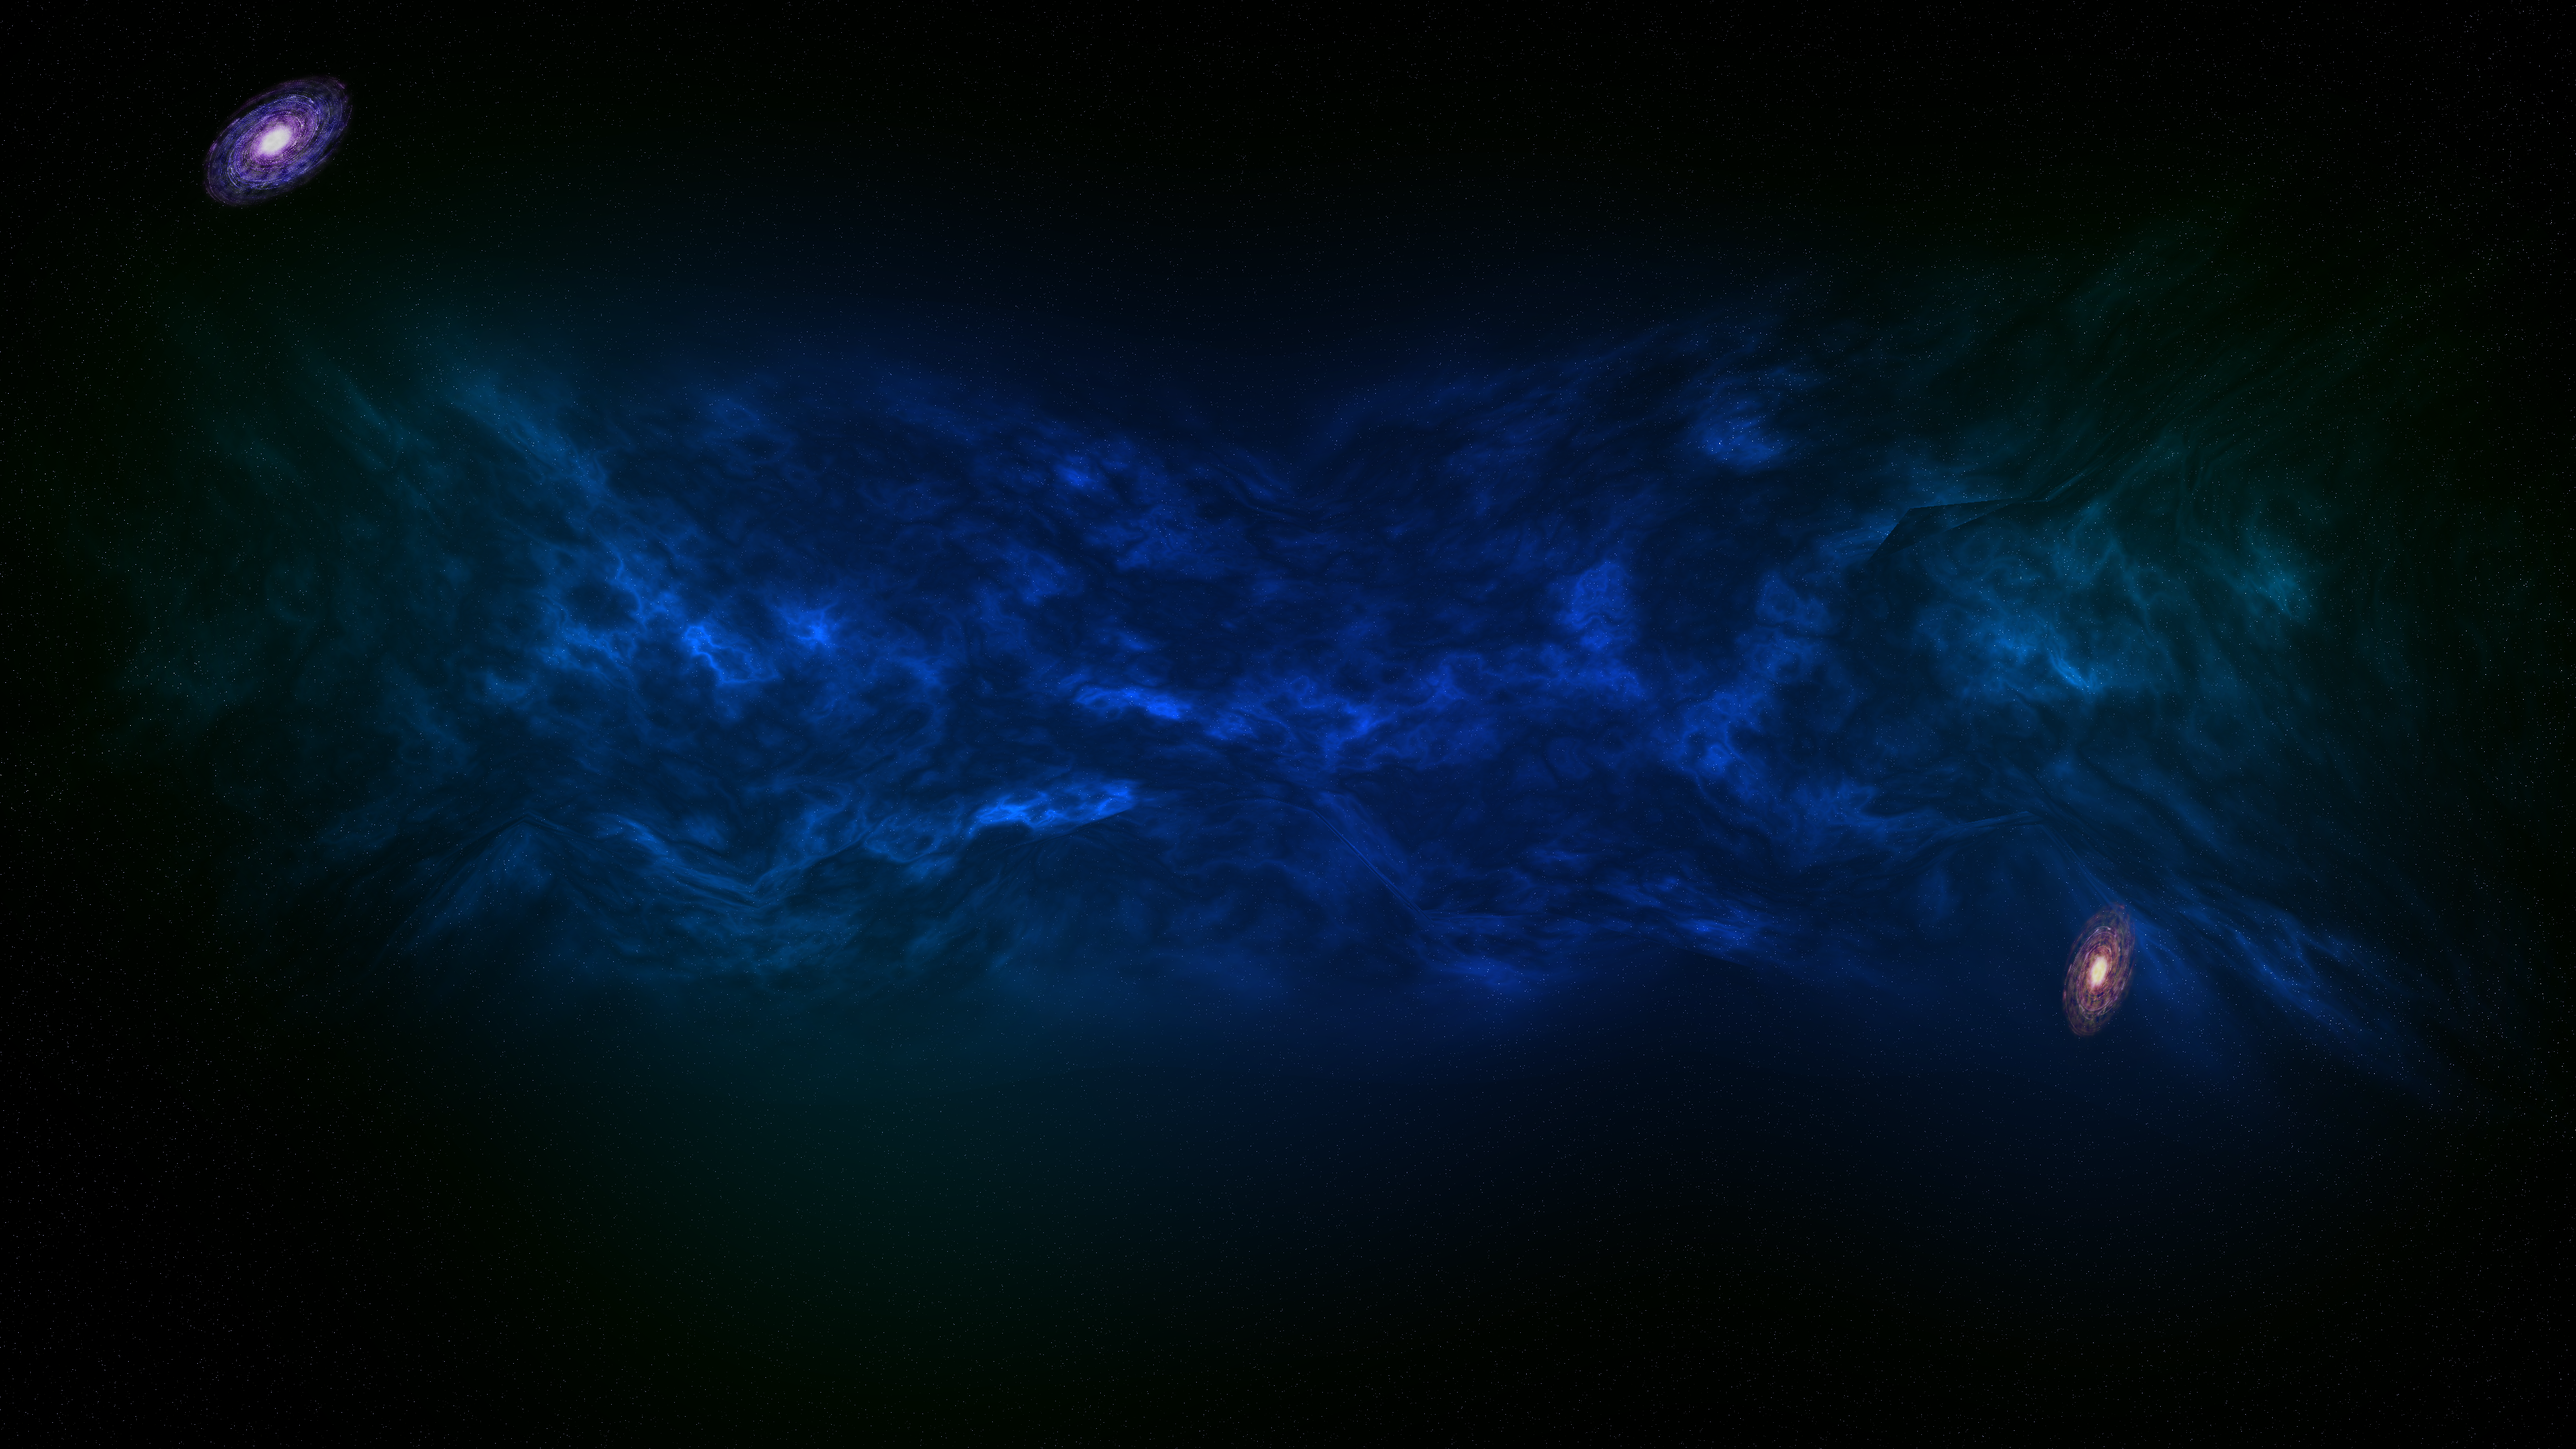
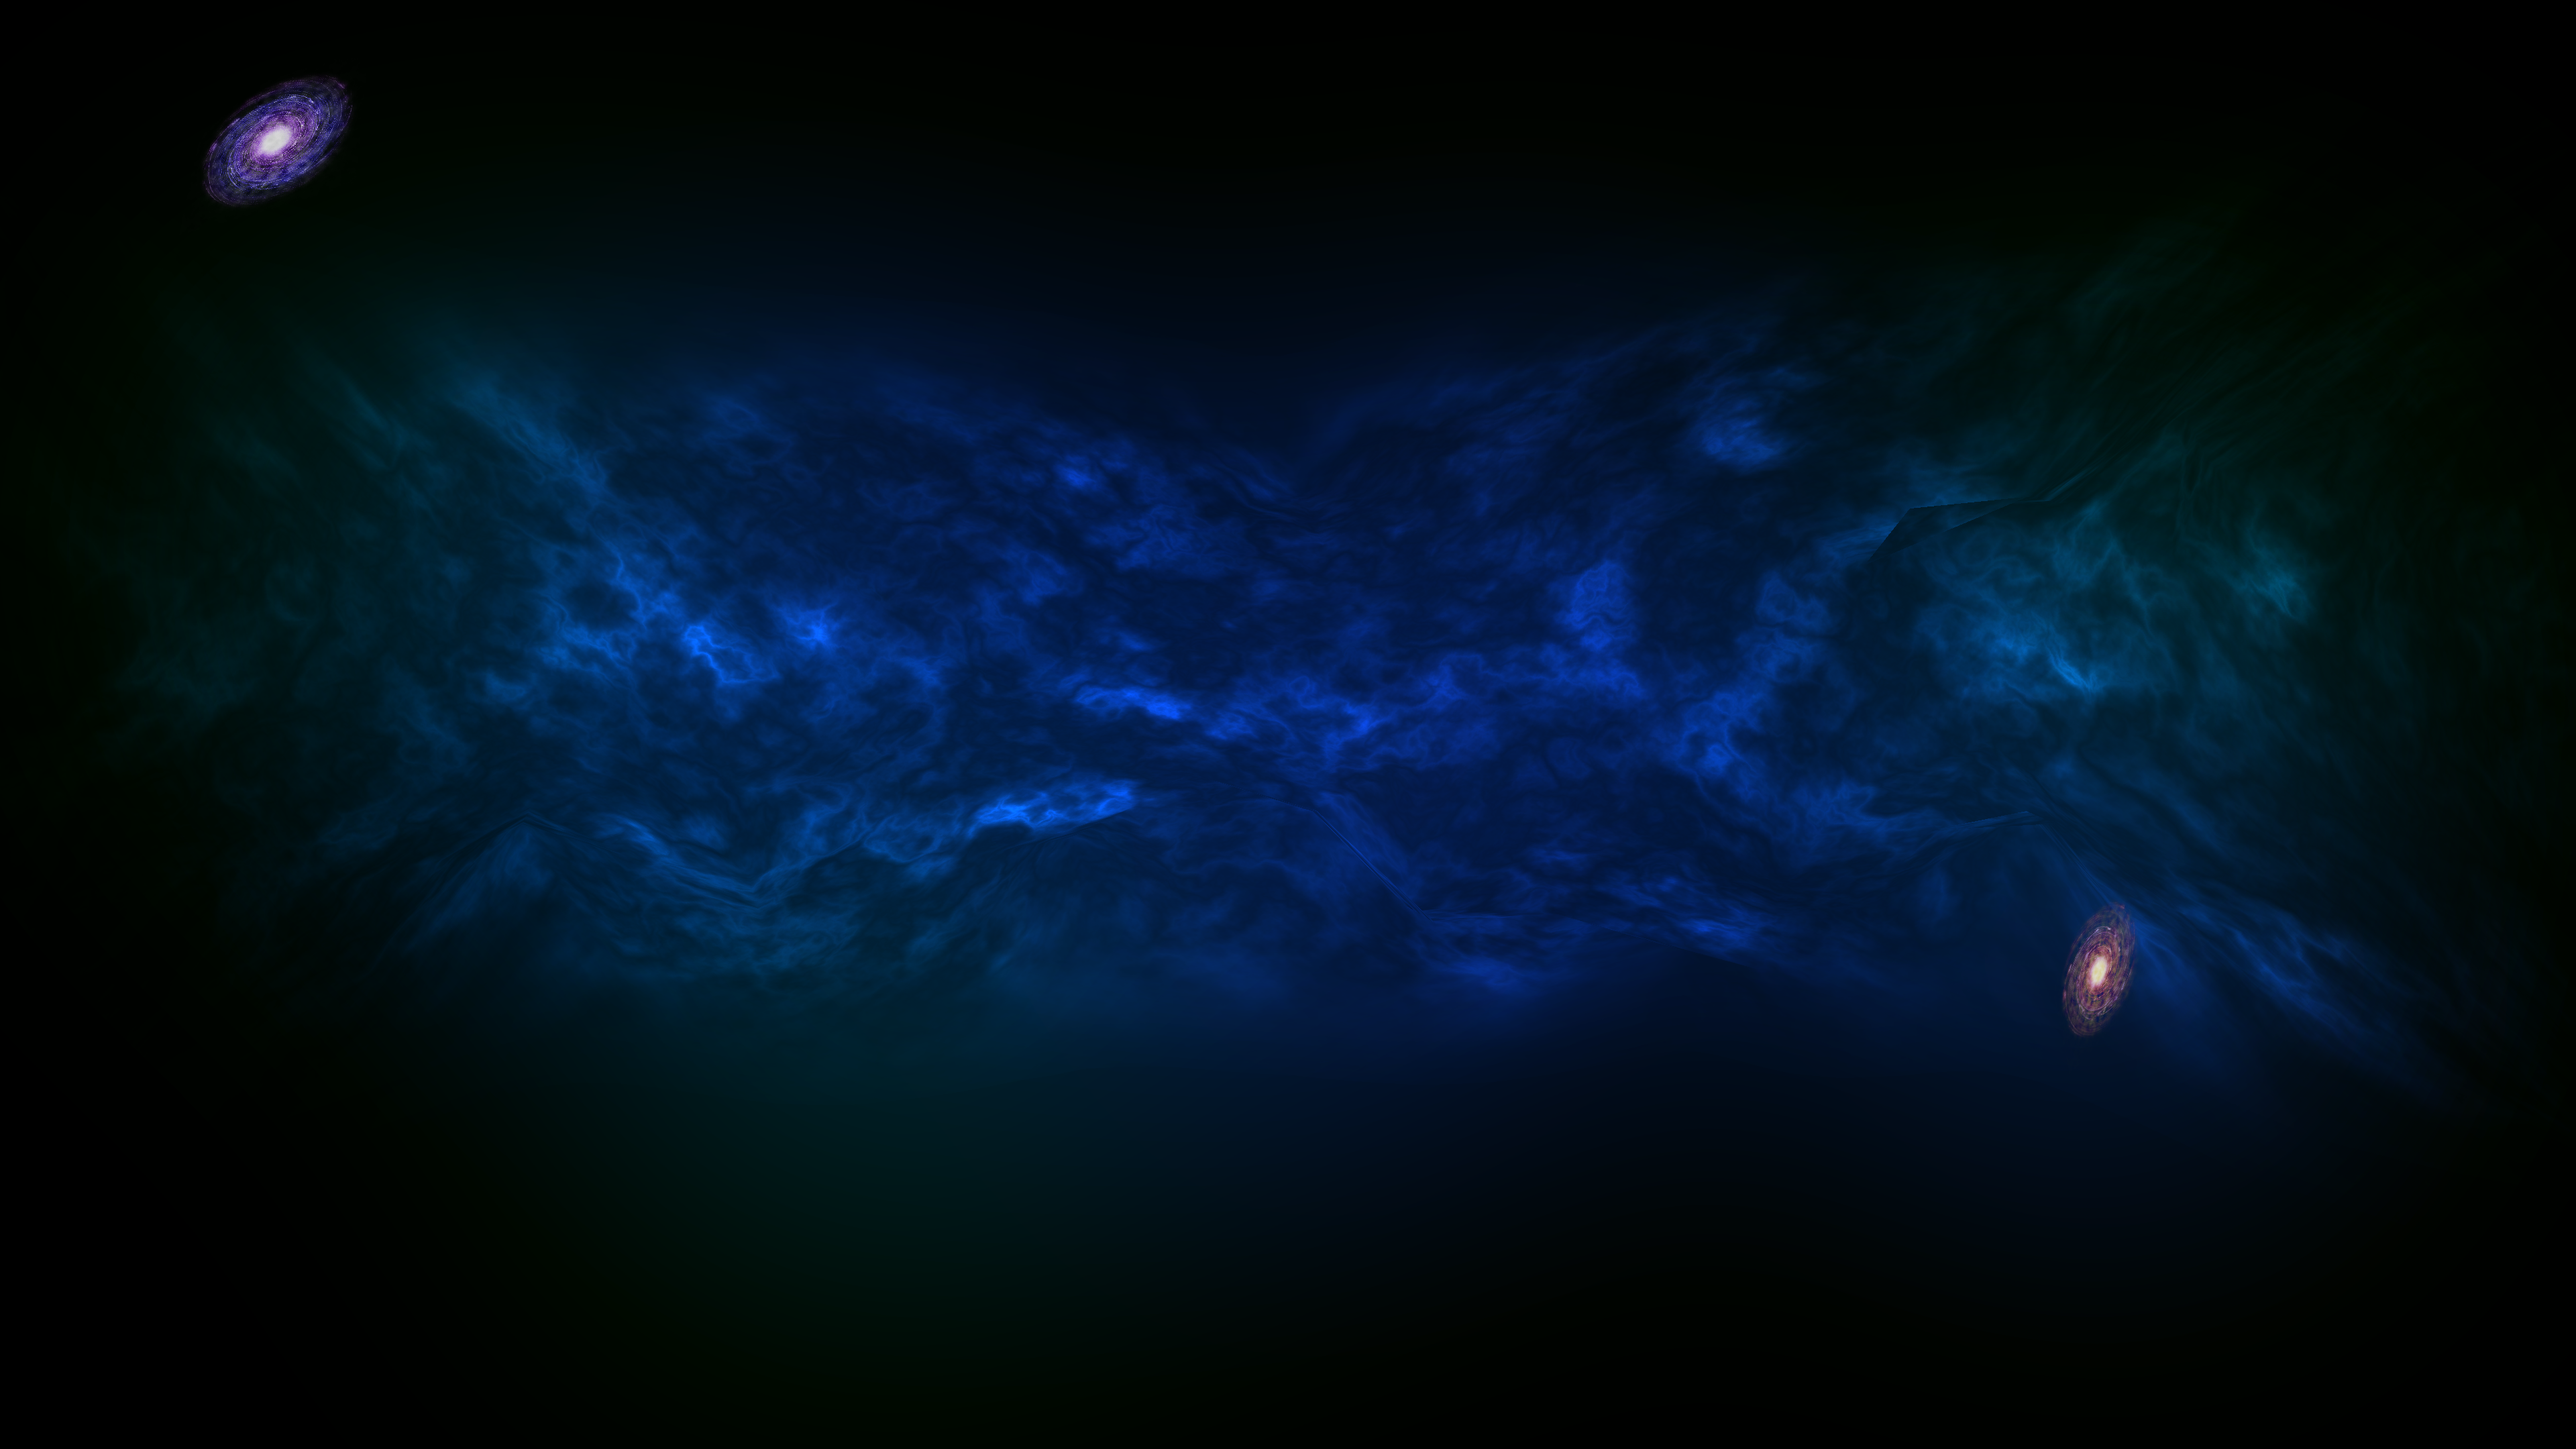
Add PArllax effect to Background

diff --git a/Space Game/Game/Layers/GameLayer.cs b/Space Game/Game/Layers/GameLayer.cs
@@ -4,11 +4,13 @@ using MonoGame.Extended;
 using MonoGame.Extended.Timers;
 using Newtonsoft.Json;
 using rache_der_reti.Core.InputManagement;
-using rache_der_reti.Core.LayerManagement;
 using rache_der_reti.Core.Menu;
 using rache_der_reti.Core.TextureManagement;
 using rache_der_reti.Game.Layers;
 using Space_Game.Core;
+using Space_Game.Core.Effects;
+using Space_Game.Core.LayerManagement;
+using Space_Game.Core.Maths;
 using Space_Game.Game.GameObjects;
 using System;
 using System.Collections.Generic;
@@ -34,6 +36,7 @@ namespace Space_Game.Game.Layers
         
         private HudLayer mHudLayer = new();
         private UiElementSprite mBackground;
+        private ParllaxManager mParllaxManager;
 
         // Layer Stuff _____________________________________
         public GameLayer() : base()
@@ -42,9 +45,10 @@ namespace Space_Game.Game.Layers
             mBackground.mSpriteFit = UiElementSprite.SpriteFit.Cover;
             SpawnSystemsAndGetHome();
             InitializeGlobals();
+            mParllaxManager = new ParllaxManager();
             OnResolutionChanged();
             Globals.mTimeWarp = 1;
-
+            InitializeParllax();
             // For Testing ____
             mShipList.Add(new Ship(mHomeSystem.Position + 
                 new Vector2(Globals.mRandom.Next(-500, 500), Globals.mRandom.Next(-500, 500))));
@@ -52,7 +56,7 @@ namespace Space_Game.Game.Layers
         public override void Update(GameTime gameTime, InputState inputState)
         {
             mPassedSeconds += gameTime.ElapsedGameTime.Milliseconds / 1000d;
-
+            mParllaxManager.Update();
             //mHudLayer.Update(gameTime, inputState);
             Globals.mCamera2d.Update(gameTime, inputState);
             UpdateSystems(gameTime, inputState);
@@ -66,19 +70,20 @@ namespace Space_Game.Game.Layers
             mSpriteBatch.Begin(samplerState: SamplerState.PointClamp);
             mBackground.Render();
             mSpriteBatch.End();
-
+            mParllaxManager.Draw();
             mSpriteBatch.Begin(SpriteSortMode.FrontToBack, transformMatrix: Globals.mCamera2d.GetViewTransformationMatrix(), samplerState: SamplerState.PointClamp);
             DrawSystems();
             DrawShips();
             DrawGrid();
             mSpriteBatch.End();
 
-            mHudLayer.Draw();
+            //mHudLayer.Draw();
         }
         public override void OnResolutionChanged()
         {
             Globals.mCamera2d.SetResolution(mGraphicsDevice.Viewport.Width, mGraphicsDevice.Viewport.Height);
             mBackground.Update(new Rectangle(0, 0, mGraphicsDevice.Viewport.Width, mGraphicsDevice.Viewport.Height));
+            mParllaxManager.OnResolutionChanged();
         }
         public override void Destroy() { }
 
@@ -120,6 +125,11 @@ namespace Space_Game.Game.Layers
             Globals.mCamera2d = new (mGraphicsDevice.Viewport.Width, mGraphicsDevice.Viewport.Height);
             Globals.mGameLayer = this;
             Globals.mCamera2d.mTargetPosition = mHomeSystem.Position;
+        }
+        private void InitializeParllax()
+        {
+            mParllaxManager.Add(new ParllaxBackground("gameBackgroundParlax", 0, 0.1f));
+            mParllaxManager.Add(new ParllaxBackground("gameBackgroundParlax", 0, 0.2f));
         }
 
         // Update Stuff _____________________________________

diff --git a/Space Game/Core/Effects/ParllaxBackground.cs b/Space Game/Core/Effects/ParllaxBackground.cs
@@ -1,0 +1,91 @@
+using Microsoft.Xna.Framework;
+using Microsoft.Xna.Framework.Graphics;
+using rache_der_reti.Core.InputManagement;
+using rache_der_reti.Core.TextureManagement;
+
+namespace Space_Game.Core.Effects
+{
+    internal class ParllaxBackground
+    {
+        private string mTextureId;
+        private int mTextureWidth;
+        private int mTextureHeight;
+
+        private Vector2 mPosition1;
+        private Vector2 mPosition2;
+        private Vector2 mPosition3;
+        private Vector2 mPosition4;
+        private Vector2 mPosition5;
+
+        private float mDepth;
+        private float mMovingScale;
+
+        public ParllaxBackground(string textureId, float depth, float movingScale)
+        {
+            mTextureWidth = Globals.mGraphicsDevice.Viewport.Width;
+            mTextureHeight = Globals.mGraphicsDevice.Viewport.Height;
+            mTextureId = textureId;
+            mDepth = depth;
+            mMovingScale = movingScale;
+            mPosition1 = Vector2.Zero;
+        }
+
+        public void Update(Vector2 movement)
+        {
+            if (mMovingScale <= 0) { return; }
+            ManagMovement(movement);
+            ManagerCorners();
+        }
+
+        public void Draw()
+        {
+            TextureManager.GetInstance().Draw(mTextureId, mPosition1, mTextureWidth, mTextureHeight);
+            TextureManager.GetInstance().Draw(mTextureId, mPosition2, mTextureWidth, mTextureHeight);
+            TextureManager.GetInstance().Draw(mTextureId, mPosition3, mTextureWidth, mTextureHeight);
+            TextureManager.GetInstance().Draw(mTextureId, mPosition4, mTextureWidth, mTextureHeight);
+            TextureManager.GetInstance().Draw(mTextureId, mPosition5, mTextureWidth, mTextureHeight);
+        }
+
+        public void OnResolutionChanged()
+        {
+            mTextureWidth = Globals.mGraphicsDevice.Viewport.Width;
+            mTextureHeight = Globals.mGraphicsDevice.Viewport.Height;
+        }
+    
+        private void ManagMovement(Vector2 movement)
+        {
+            mPosition1 -= movement * mMovingScale;
+
+        }
+
+        private void ManagerCorners()
+        {
+            mPosition1.X %= mTextureWidth;
+            mPosition1.Y %= mTextureHeight;
+
+            mPosition2 = new Vector2(mPosition1.X - mTextureWidth, mPosition1.Y);
+            if (mPosition1.X < 0)
+            {
+                mPosition2 = new Vector2(mPosition1.X + mTextureWidth, mPosition1.Y);
+            }
+
+            mPosition3 = new Vector2(mPosition1.X, mPosition1.Y - mTextureHeight);
+            if (mPosition1.Y < 0)
+            {
+                mPosition3 = new Vector2(mPosition1.X, mPosition1.Y + mTextureHeight);
+            }
+
+            mPosition4 = new Vector2(mPosition1.X - mTextureWidth, mPosition1.Y - mTextureHeight);
+            if (mPosition1.X < 0 && mPosition1.Y < 0)
+            {
+                mPosition4 = new Vector2(mPosition1.X + mTextureWidth, mPosition1.Y + mTextureHeight);
+            }
+
+            mPosition5 = new Vector2(mPosition1.X + mTextureWidth, mPosition1.Y - mTextureHeight);
+            if (mPosition1.Y < 0)
+            {
+                mPosition5 = new Vector2(mPosition1.X - mTextureWidth, mPosition1.Y + mTextureHeight);
+            }
+        }
+    }
+}

diff --git a/Space Game/Core/Effects/ParllaxManager.cs b/Space Game/Core/Effects/ParllaxManager.cs
@@ -1,0 +1,51 @@
+using Microsoft.Xna.Framework;
+using Microsoft.Xna.Framework.Graphics;
+using rache_der_reti.Core.InputManagement;
+using System;
+using System.Collections.Generic;
+using System.ComponentModel;
+using System.Linq;
+using System.Text;
+using System.Threading.Tasks;
+
+namespace Space_Game.Core.Effects
+{
+    internal class ParllaxManager
+    {
+        private Vector2 mLastPosition = Globals.mCamera2d.mPosition;
+        private List<ParllaxBackground> mBackdrounds = new List<ParllaxBackground>();
+
+        public void Update()
+        {
+            var movement = Globals.mCamera2d.mPosition - mLastPosition;
+            foreach (ParllaxBackground backdround in mBackdrounds) 
+            {
+                backdround.Update(movement/0.9f);
+            }
+            mLastPosition = Globals.mCamera2d.mPosition;
+        }
+
+        public void Draw()
+        {
+            Globals.mSpriteBatch.Begin(samplerState: SamplerState.PointClamp);
+            foreach (ParllaxBackground backdround in mBackdrounds)
+            {
+                backdround.Draw();
+            }
+            Globals.mSpriteBatch.End();
+        }
+
+        public void Add(ParllaxBackground backdround)
+        {
+            mBackdrounds.Add(backdround);
+        }
+
+        public void OnResolutionChanged()
+        {
+            foreach (ParllaxBackground backdround in mBackdrounds)
+            {
+                backdround.OnResolutionChanged();
+            }
+        }
+    }
+}

diff --git a/Space Game/Core/LayerManagement/Layer.cs b/Space Game/Core/LayerManagement/Layer.cs
@@ -4,10 +4,10 @@ using Microsoft.Xna.Framework.Content;
 using Microsoft.Xna.Framework.Graphics;
 using Newtonsoft.Json;
 using rache_der_reti.Core.InputManagement;
+using rache_der_reti.Core.LayerManagement;
 using rache_der_reti.Core.SoundManagement;
-using Space_Game.Core;
 
-namespace rache_der_reti.Core.LayerManagement;
+namespace Space_Game.Core.LayerManagement;
 
 [Serializable]
 public abstract class Layer

diff --git a/Space Game/Game/Layers/HudLayer.cs b/Space Game/Game/Layers/HudLayer.cs
@@ -4,9 +4,9 @@ using System.Linq;
 using Microsoft.Xna.Framework;
 using Microsoft.Xna.Framework.Graphics;
 using rache_der_reti.Core.InputManagement;
-using rache_der_reti.Core.LayerManagement;
 using rache_der_reti.Core.Menu;
 using Space_Game.Core;
+using Space_Game.Core.LayerManagement;
 
 namespace rache_der_reti.Game.Layers;
 

diff --git a/Space Game/Core/LayerManagement/LayerManager.cs b/Space Game/Core/LayerManagement/LayerManager.cs
@@ -6,6 +6,7 @@ using Microsoft.Xna.Framework.Graphics;
 using rache_der_reti.Core.InputManagement;
 using rache_der_reti.Core.SoundManagement;
 using Space_Game;
+using Space_Game.Core.LayerManagement;
 using Space_Game.Game.Layers;
 
 namespace rache_der_reti.Core.LayerManagement;

diff --git a/Space Game/Game/GameObjects/Planet.cs b/Space Game/Game/GameObjects/Planet.cs
@@ -6,6 +6,7 @@ using rache_der_reti.Core.InputManagement;
 using rache_der_reti.Core.TextureManagement;
 using Space_Game.Core;
 using Space_Game.Core.GameObject;
+using Space_Game.Core.Maths;
 using System;
 
 namespace Space_Game.Game.GameObjects

diff --git a/Space Game/Game/GameObjects/Ship.cs b/Space Game/Game/GameObjects/Ship.cs
@@ -6,6 +6,7 @@ using rache_der_reti.Core.InputManagement;
 using rache_der_reti.Core.TextureManagement;
 using Space_Game.Core;
 using Space_Game.Core.GameObject;
+using Space_Game.Core.Maths;
 using System;
 
 namespace Space_Game.Game.GameObjects

diff --git a/Space Game/Core/GameObject/MovableObject.cs b/Space Game/Core/GameObject/MovableObject.cs
@@ -3,6 +3,7 @@ using MonoGame.Extended;
 using Newtonsoft.Json;
 using NVorbis;
 using rache_der_reti.Core.TextureManagement;
+using Space_Game.Core.Maths;
 using System;
 
 namespace Space_Game.Core.GameObject

diff --git a/Space Game/Core/Maths/MyMathF.cs b/Space Game/Core/Maths/MyMathF.cs
@@ -7,7 +7,7 @@ using System.Linq;
 using System.Text;
 using System.Threading.Tasks;
 
-namespace Space_Game.Core
+namespace Space_Game.Core.Maths
 {
     internal class MyMathF
     {
